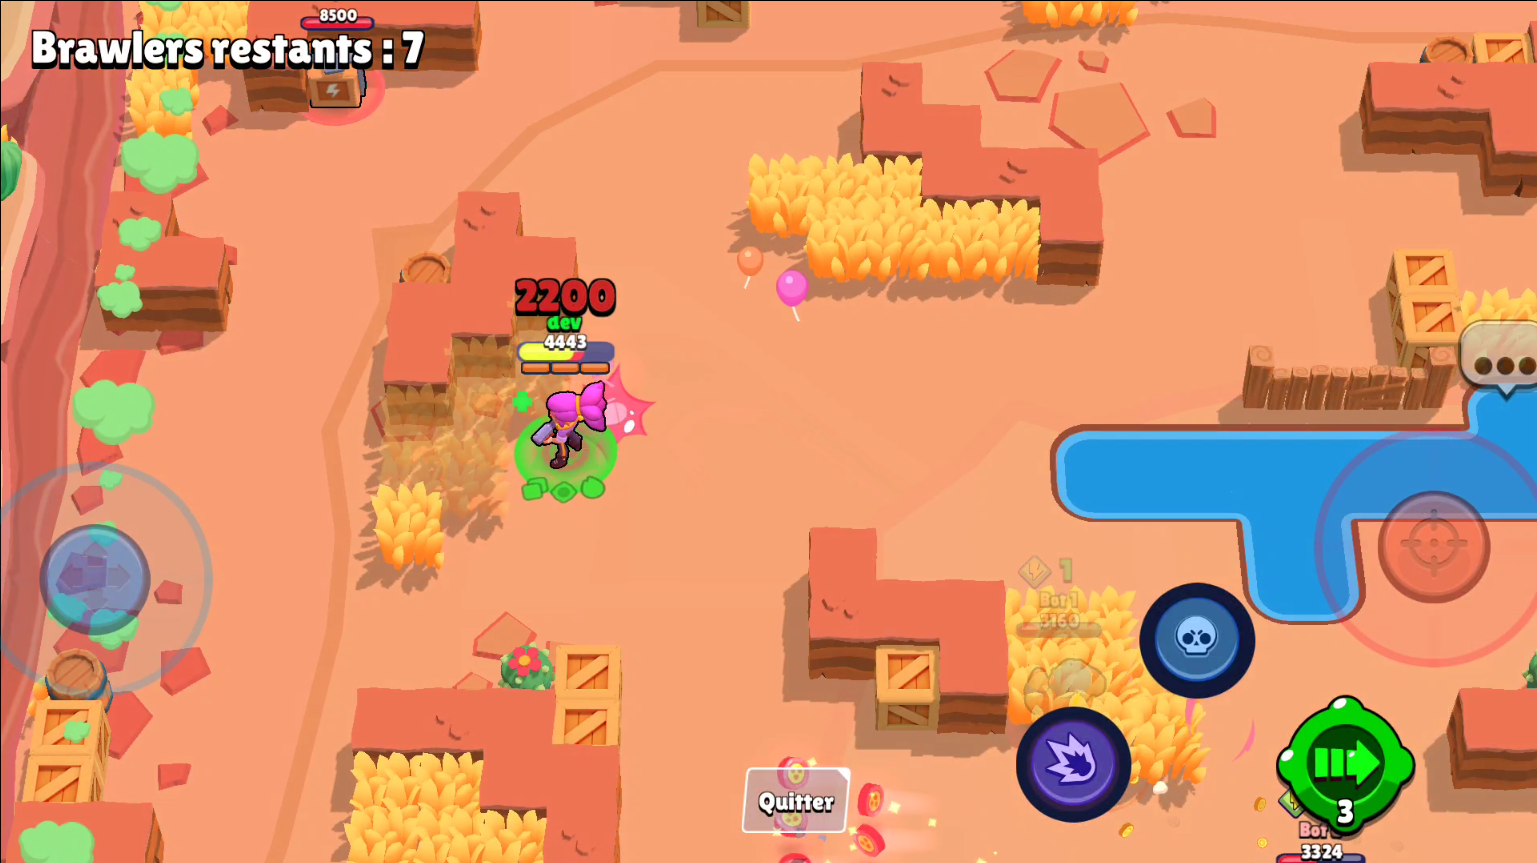
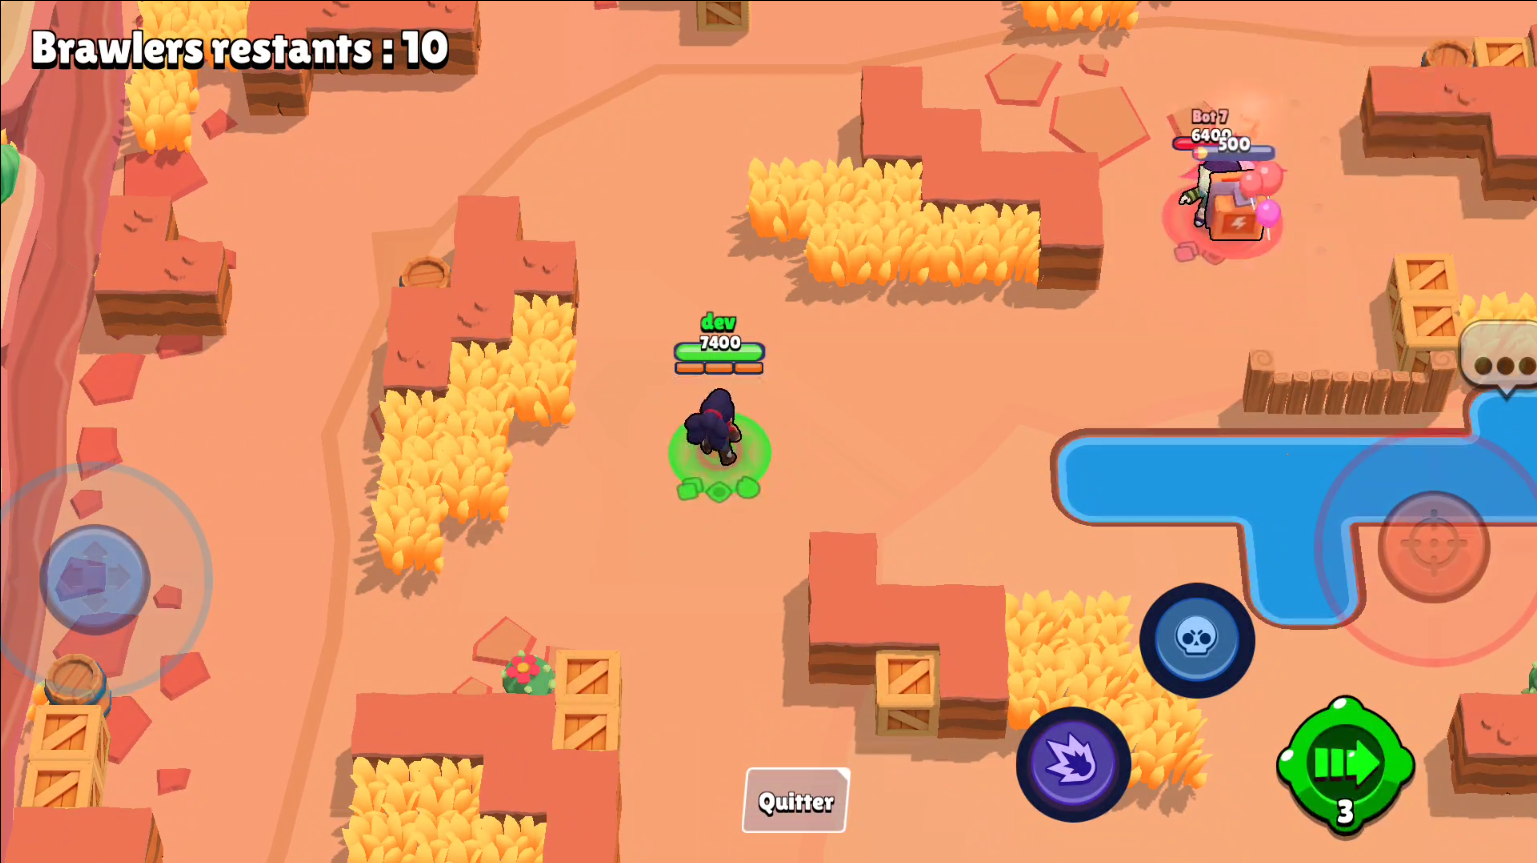
go hide into bushes but die in the smoke

diff --git a/playing.py b/playing.py
@@ -66,12 +66,14 @@ def from_a_to_b(a,b):
     return dist,angle_degrees
 
 
+
 def jouer(perso,box,bush,smoke,smoke_mean):
     nb_perso = perso["nb_perso"]
     is_smoke = smoke["nb_smoke"]>3
     is_box = box["nb_box"]>0
     is_bush = bush["nb_bush"]>0
-    if is_bush :
+    joué=False
+    if is_bush and nb_perso==1 :
         bush_coords = np.array(bush['list_bush'])
         perso_coords = np.array(perso['list_perso'][0])
         distances = np.linalg.norm(bush_coords - perso_coords, axis=1)
@@ -79,7 +81,7 @@ def jouer(perso,box,bush,smoke,smoke_mean):
         bush_dist_sort = sorted(bush_dist, key=lambda x: x[1])
         closest_bush = bush_dist_sort[0]
         print("closest_bush",closest_bush)
-    if is_box :
+    if is_box and nb_perso==1  :
         box_coords = np.array(box['list_box'])
         perso_coords = np.array(perso['list_perso'][0])
         distances = np.linalg.norm(box_coords - perso_coords, axis=1)
@@ -88,11 +90,21 @@ def jouer(perso,box,bush,smoke,smoke_mean):
         closest_box = box_dist_sort[0]
         print("closest_box",closest_box)
     
-    if is_bush and nb_perso==1 :
+    if is_smoke and nb_perso==1 and joué==False:
+        smoke_coord_mean = smoke_mean["mean_pos"]
+        smoke_dist,smoke_angle_degrees = from_a_to_b(smoke_coord_mean,perso_coords)
+        if smoke_dist<250:
+            print(f"il y a de la smoke en {smoke_coord_mean}, je suis en {perso_coords}, je me déplace pendant {2-smoke_dist/5} avec un angle de {smoke_angle_degrees}")
+            mouse_controll.avance_angle_temps(2-smoke_dist/50,smoke_angle_degrees)
+            time.sleep(abs(2-smoke_dist/5))
+            joué=True
+
+    if is_bush and nb_perso==1 and joué==False:
         dist,angle_degrees=from_a_to_b(perso_coords,closest_bush[0])
-        print(f"il y a un bush en {closest_bush[0]}, je suis en {perso_coords}, je me déplace pendant {dist/250} avec un angle de {angle_degrees}")
-        mouse_controll.avance_angle_temps(dist/250,angle_degrees)
-        time.sleep(dist/250)
+        print(f"il y a un bush en {closest_bush[0]}, je suis en {perso_coords}, je me déplace pendant {dist/150} avec un angle de {angle_degrees}")
+        mouse_controll.avance_angle_temps(dist/150,angle_degrees)
+        time.sleep(5+dist/150)
+        joué=True
 
 
     
@@ -116,7 +128,7 @@ def boucle():
     listener.stop()
 
 def debug():
-    time.sleep(2)
+    time.sleep(1)
     path_to_screen = take_screenshot()
     box = IA_box.get_box_info(path_to_screen)
     perso = IA_perso.get_perso_info(path_to_screen)
@@ -126,7 +138,8 @@ def debug():
     print(perso,box,bush,smoke,smoke_mean)
     jouer(perso,box,bush,smoke,smoke_mean)
 def main():
-    debug()
+    for i in range (100):
+        debug()
 
 if __name__==__name__:
     main()

diff --git a/controller/mouse_controll.py b/controller/mouse_controll.py
@@ -216,7 +216,8 @@ def keyboard_control():
         listener.join()
 
 def main():
-    keyboard_control()
+    time.sleep(2)
+    avance_droite_temps(3)
 
 if __name__ == "__main__":
     main()
